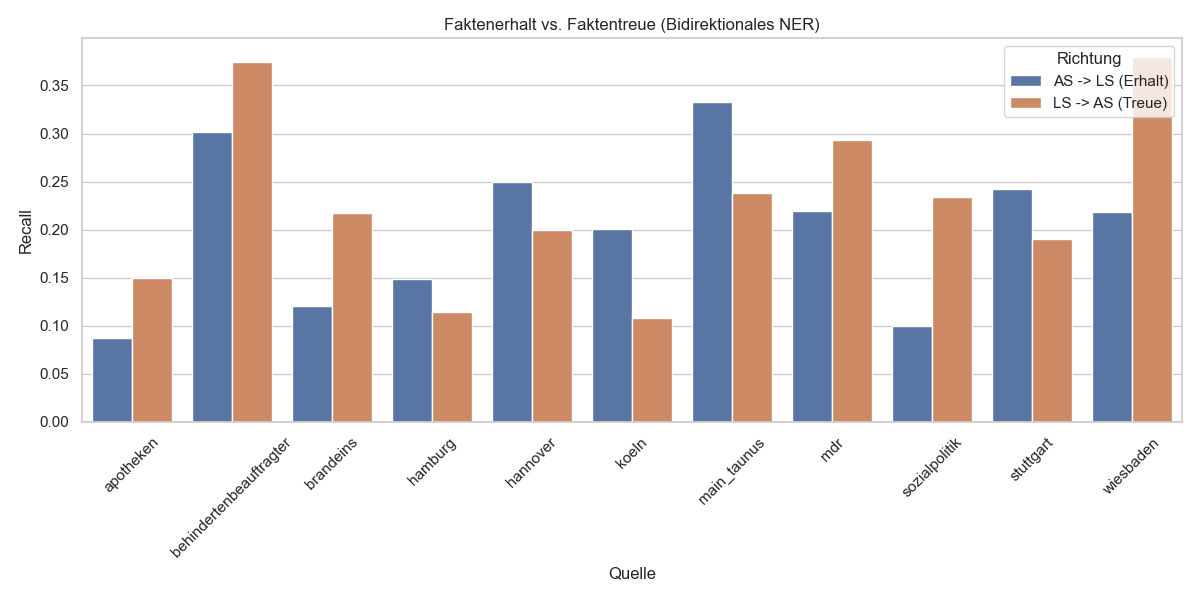
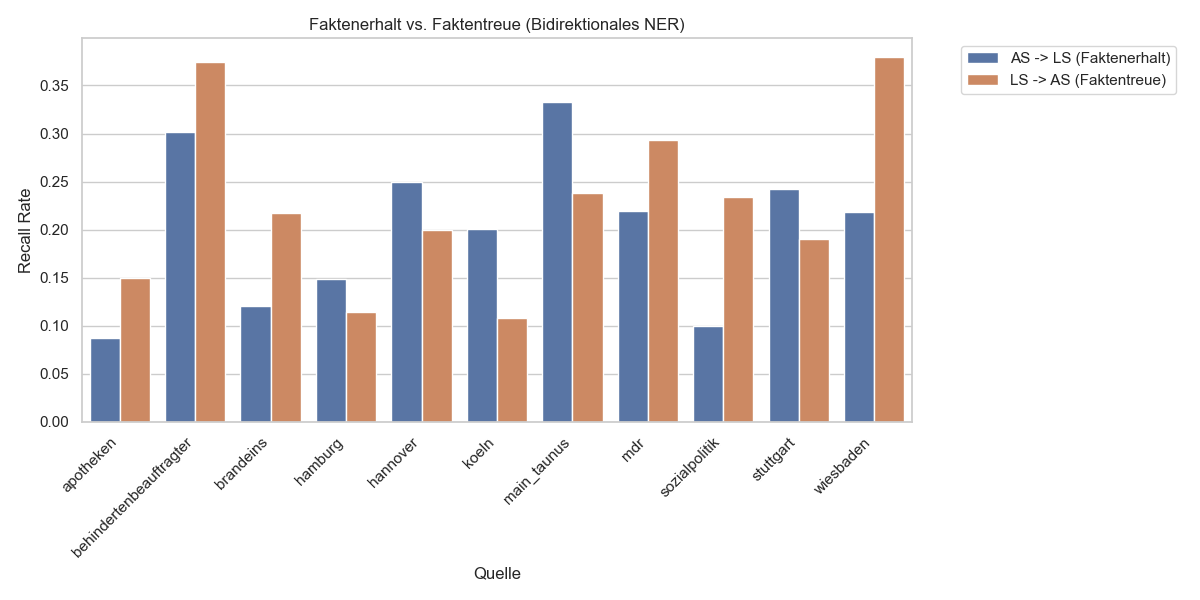
feat: add some more insights in 08

diff --git a/scripts/visualize_analysis.py b/scripts/visualize_analysis.py
@@ -11,85 +11,148 @@ os.makedirs(OUTPUT_DIR, exist_ok=True)
 def create_visualizations():
     df = pd.read_csv(INPUT_CSV)
     
-    # Filter extremes for cleaner plots (optional, but good for token_ratio vs ner_recall)
-    # We will plot the full dataset, but be aware of outliers.
-    
     # Set style
     sns.set_theme(style="whitegrid")
     plt.rcParams.update({'font.size': 12})
     
-    # 1. Token Ratio vs. NER Recall (AS -> LS)
-    plt.figure(figsize=(10, 6))
-    sns.scatterplot(data=df, x='token_ratio', y='ner_recall_as_ls', hue='source', alpha=0.5)
-    plt.title('Token Ratio vs. NER Recall (Fakten-Erhalt AS -> LS)')
-    plt.xlabel('Token Ratio (LS / AS)')
-    plt.ylabel('NER Recall (Fakten-Erhalt)')
-    plt.axvline(1.0, color='r', linestyle='--')
-    # Move legend outside
+    # 1. Jina Context Comparison (128 vs 512 vs 8192)
+    sim_cols = ['semantic_similarity_128', 'semantic_similarity_512', 'semantic_similarity_8192']
+    # Check if 8192 exists and has data, otherwise just plot 128 and 512
+    valid_cols = [c for c in sim_cols if c in df.columns and not df[c].isna().all()]
+    mean_sims = df.groupby('source')[valid_cols].mean().reset_index()
+    
+    # Rename columns for plot
+    rename_dict = {'semantic_similarity_128': '128 Tokens', 
+                   'semantic_similarity_512': '512 Tokens', 
+                   'semantic_similarity_8192': '8192 Tokens'}
+    mean_sims = mean_sims.rename(columns=rename_dict)
+    
+    sim_df = mean_sims.melt(id_vars='source', var_name='Context Limit', value_name='Similarity')
+    
+    plt.figure(figsize=(12, 6))
+    sns.barplot(data=sim_df, x='source', y='Similarity', hue='Context Limit')
+    plt.xticks(rotation=45, ha='right')
+    plt.title('Semantische Ähnlichkeit: Einfluss der Kontextlänge (Jina Model)')
+    plt.ylabel('Cosine Similarity')
     plt.legend(bbox_to_anchor=(1.05, 1), loc='upper left')
     plt.tight_layout()
-    plt.savefig(os.path.join(OUTPUT_DIR, 'token_ratio_vs_ner_recall.png'))
+    plt.savefig(os.path.join(OUTPUT_DIR, 'jina_context_comparison.png'))
     plt.close()
-    
-    # 2. Semantic Similarity by Source (Jina 512)
+
+    # 1.5 Semantic Similarity by Source (Jina 8192) - Boxplot
+    if 'semantic_similarity_8192' in df.columns and not df['semantic_similarity_8192'].isna().all():
+        plt.figure(figsize=(12, 6))
+        sns.boxplot(data=df, x='source', y='semantic_similarity_8192', color='#4C72B0') 
+        plt.xticks(rotation=45, ha='right')
+        plt.title('Semantische Ähnlichkeit nach Quelle (Jina 8192 Tokens)')
+        plt.ylabel('Cosine Similarity (SBERT)')
+        plt.tight_layout()
+        plt.savefig(os.path.join(OUTPUT_DIR, 'semantic_similarity_8192.png'))
+        plt.close()
+
+    # 2. Bidirectional NER Comparison
+    ner_cols = ['ner_recall_as_ls', 'ner_recall_ls_as']
+    mean_ner = df.groupby('source')[ner_cols].mean().reset_index()
+    mean_ner.columns = ['Quelle', 'AS -> LS (Faktenerhalt)', 'LS -> AS (Faktentreue)']
+    ner_df = mean_ner.melt(id_vars='Quelle', var_name='Richtung', value_name='Recall')
+
     plt.figure(figsize=(12, 6))
-    sns.boxplot(data=df, x='source', y='semantic_similarity_512')
-    plt.xticks(rotation=45)
-    plt.title('Semantische Ähnlichkeit nach Quelle (Jina 512 Tokens)')
-    plt.ylabel('Cosine Similarity (SBERT)')
+    sns.barplot(data=ner_df, x='Quelle', y='Recall', hue='Richtung')
+    plt.xticks(rotation=45, ha='right')
+    plt.title('Faktenerhalt vs. Faktentreue (Bidirektionales NER)')
+    plt.ylabel('Recall Rate')
+    plt.legend(bbox_to_anchor=(1.05, 1), loc='upper left')
     plt.tight_layout()
-    plt.savefig(os.path.join(OUTPUT_DIR, 'semantic_similarity_by_source.png'))
+    plt.savefig(os.path.join(OUTPUT_DIR, 'bidirectional_ner_comparison.png'))
     plt.close()
+
+    # 3. Token Ratio vs Semantic Similarity
+    plt.figure(figsize=(10, 6))
+    sns.regplot(data=df, x='token_ratio', y='semantic_similarity_512', scatter_kws={'alpha':0.3}, line_kws={'color':'red'})
+    plt.title('Korrelation: Token-Verhältnis vs. Semantische Ähnlichkeit')
+    plt.xlabel('Token Ratio (LS / AS)')
+    plt.ylabel('Semantische Ähnlichkeit (Jina 512)')
+    plt.tight_layout()
+    plt.savefig(os.path.join(OUTPUT_DIR, 'token_ratio_vs_similarity_scatter.png'))
+    plt.close()
+
+    # 4. Semantic Similarity Histogram (Filtering)
+    plt.figure(figsize=(10, 6))
+    sns.histplot(data=df, x='semantic_similarity_512', bins=50, kde=True)
+    plt.axvline(0.6, color='red', linestyle='--', label='Untere Grenze (0.6)')
+    plt.axvline(0.98, color='green', linestyle='--', label='Obere Grenze (0.98)')
+    plt.title('Verteilung der Semantischen Ähnlichkeit (inkl. Filtergrenzen)')
+    plt.xlabel('Semantische Ähnlichkeit (Jina 512)')
+    plt.ylabel('Anzahl Artikelpaare')
+    plt.legend()
+    plt.tight_layout()
+    plt.savefig(os.path.join(OUTPUT_DIR, 'similarity_distribution_hist.png'))
+    plt.close()
+
+    # 5. Sentence Length Comparison
+    sent_len_data = {
+        'Quelle': df['source'].tolist() * 2,
+        'Sprache': ['Alltagssprache'] * len(df) + ['Leichte Sprache'] * len(df),
+        'Satzlänge': df['as_avg_sent_len'].tolist() + df['ls_avg_sent_len'].tolist()
+    }
+    sent_df = pd.DataFrame(sent_len_data)
     
-    # 3. POS Ratio Changes (Mean)
+    plt.figure(figsize=(12, 6))
+    sns.barplot(data=sent_df, x='Quelle', y='Satzlänge', hue='Sprache')
+    plt.xticks(rotation=45, ha='right')
+    plt.title('Durchschnittliche Satzlänge nach Quelle')
+    plt.ylabel('Tokens pro Satz')
+    plt.legend(bbox_to_anchor=(1.05, 1), loc='upper left')
+    plt.tight_layout()
+    plt.savefig(os.path.join(OUTPUT_DIR, 'sentence_length_comparison_bar.png'))
+    plt.close()
+
+    # 6. POS Distribution Comparison
     pos_cols_as = ['as_adj_ratio', 'as_noun_ratio', 'as_verb_ratio', 'as_conj_ratio']
     pos_cols_ls = ['ls_adj_ratio', 'ls_noun_ratio', 'ls_verb_ratio', 'ls_conj_ratio']
     
     mean_pos = df[pos_cols_as + pos_cols_ls].mean()
     pos_data = {
-        'Metric': ['Adjectives', 'Nouns', 'Verbs', 'Conjunctions'],
-        'AS': [mean_pos['as_adj_ratio'], mean_pos['as_noun_ratio'], mean_pos['as_verb_ratio'], mean_pos['as_conj_ratio']],
-        'LS': [mean_pos['ls_adj_ratio'], mean_pos['ls_noun_ratio'], mean_pos['ls_verb_ratio'], mean_pos['ls_conj_ratio']]
+        'Wortart': ['Adjektive', 'Nomen', 'Verben', 'Konjunktionen'],
+        'Alltagssprache': [mean_pos['as_adj_ratio'], mean_pos['as_noun_ratio'], mean_pos['as_verb_ratio'], mean_pos['as_conj_ratio']],
+        'Leichte Sprache': [mean_pos['ls_adj_ratio'], mean_pos['ls_noun_ratio'], mean_pos['ls_verb_ratio'], mean_pos['ls_conj_ratio']]
     }
-    pos_df = pd.DataFrame(pos_data).melt(id_vars='Metric', var_name='Language', value_name='Ratio')
+    pos_df = pd.DataFrame(pos_data).melt(id_vars='Wortart', var_name='Sprache', value_name='Anteil')
     
     plt.figure(figsize=(10, 6))
-    sns.barplot(data=pos_df, x='Metric', y='Ratio', hue='Language')
-    plt.title('Durchschnittliche Wortarten-Verteilung (AS vs. LS)')
-    plt.ylabel('Anteil am Gesamttext')
+    sns.barplot(data=pos_df, x='Wortart', y='Anteil', hue='Sprache')
+    plt.title('Durchschnittliche Wortarten-Verteilung (Gesamtes Korpus)')
+    plt.ylabel('Anteil an allen Tokens')
     plt.tight_layout()
-    plt.savefig(os.path.join(OUTPUT_DIR, 'pos_distribution_comparison.png'))
+    plt.savefig(os.path.join(OUTPUT_DIR, 'pos_distribution_bar.png'))
     plt.close()
 
-    # 4. Sentence Length Comparison
-    if 'as_avg_sent_len' in df.columns:
-        plt.figure(figsize=(10, 6))
-        sent_len_data = {
-            'Language': ['AS', 'LS'],
-            'Avg Sentence Length': [df['as_avg_sent_len'].mean(), df['ls_avg_sent_len'].mean()]
-        }
-        sent_df = pd.DataFrame(sent_len_data)
-        sns.barplot(data=sent_df, x='Language', y='Avg Sentence Length')
-        plt.title('Durchschnittliche Satzlänge (Tokens)')
-        plt.ylabel('Tokens pro Satz')
-        plt.tight_layout()
-        plt.savefig(os.path.join(OUTPUT_DIR, 'sentence_length_comparison.png'))
-        plt.close()
-
-    # 5. Bidirectional NER Comparison
-    ner_cols = ['ner_recall_as_ls', 'ner_recall_ls_as']
-    mean_ner = df.groupby('source')[ner_cols].mean().reset_index()
-    mean_ner.columns = ['Quelle', 'AS -> LS (Erhalt)', 'LS -> AS (Treue)']
-    ner_df = mean_ner.melt(id_vars='Quelle', var_name='Richtung', value_name='Recall')
-
+    # 7. Article Length Distribution (Histogram)
     plt.figure(figsize=(12, 6))
-    sns.barplot(data=ner_df, x='Quelle', y='Recall', hue='Richtung')
-    plt.xticks(rotation=45)
-    plt.title('Faktenerhalt vs. Faktentreue (Bidirektionales NER)')
-    plt.ylabel('Recall')
+    # Log scale might be better as lengths can vary wildly
+    # sns.histplot(data=df, x='as_tokens', label='Alltagssprache', kde=True, color='blue', alpha=0.5)
+    # sns.histplot(data=df, x='ls_tokens', label='Leichte Sprache', kde=True, color='green', alpha=0.5)
+    
+    # Melting for easier plotting with hue
+    length_df = df[['as_tokens', 'ls_tokens']].melt(var_name='Sprache', value_name='Token-Anzahl')
+    length_df['Sprache'] = length_df['Sprache'].map({'as_tokens': 'Alltagssprache', 'ls_tokens': 'Leichte Sprache'})
+    
+    sns.histplot(data=length_df, x='Token-Anzahl', hue='Sprache', kde=True, bins=50, element="step", common_norm=False)
+    
+    # Add SBERT limits for context
+    plt.axvline(128, color='red', linestyle='--', label='SBERT Limit (128)')
+    plt.axvline(512, color='orange', linestyle='--', label='SBERT Limit (512)')
+    
+    plt.title('Verteilung der Artikellängen (Token-Anzahl)')
+    plt.xlabel('Anzahl Tokens')
+    plt.ylabel('Anzahl Artikel')
+    plt.legend()
+    plt.xlim(0, 3000) # Limit x-axis for better visibility of the bulk of articles
     plt.tight_layout()
-    plt.savefig(os.path.join(OUTPUT_DIR, 'bidirectional_ner_comparison.png'))
+    plt.savefig(os.path.join(OUTPUT_DIR, 'article_length_distribution.png'))
     plt.close()
+
+    print(f"Visualizations updated and saved to {OUTPUT_DIR}")
 
 if __name__ == "__main__":
     create_visualizations()

diff --git a/scripts/measure_information_loss.py b/scripts/measure_information_loss.py
@@ -106,11 +106,10 @@ def analyze_corpus():
             
             # Semantic Similarity (Jina Model at different sequence lengths)
             
-            # 1. Full Context (8192) - Skipped to save time, we already computed this
-            # sbert.max_seq_length = 8192
-            # embeddings_full = sbert.encode([as_text, ls_text], batch_size=1, convert_to_tensor=True)
-            # sim_8192 = util.cos_sim(embeddings_full[0], embeddings_full[1]).item()
-            sim_8192 = None
+            # 1. Full Context (8192)
+            sbert.max_seq_length = 8192
+            embeddings_full = sbert.encode([as_text, ls_text], batch_size=1, convert_to_tensor=True)
+            sim_8192 = util.cos_sim(embeddings_full[0], embeddings_full[1]).item()
             
             # 2. Context 512
             sbert.max_seq_length = 512

diff --git a/research/08_dataset_analysis.md b/research/08_dataset_analysis.md
@@ -72,6 +72,9 @@ Um das Problem der abgeschnittenen Texte (Truncation) final zu lösen, wurde das
 
 Um einen sauberen Vergleich zwischen den Modellen und den Auswirkungen der Textlänge zu ziehen, wurde die Kosinus-Ähnlichkeit mit dem Jina-Modell dreistufig gemessen: bei einem Limit von 128 Tokens, 512 Tokens und der vollen Textlänge (max. 8192 Tokens).
 
+![Einfluss der Kontextlänge auf Semantische Ähnlichkeit](../research/img/analysis/jina_context_comparison.png)
+*Abbildung: Einfluss der Kontextlänge (128 vs 512 vs 8192 Tokens) auf die gemessene semantische Ähnlichkeit.*
+
 | Quelle | Jina Similarity (128 Tokens) | Jina Similarity (512 Tokens) | Jina Similarity (Full Context / 8192) | Differenz (128 vs Full) |
 | :--- | :---: | :---: | :---: | :---: |
 | **apotheken** | 0.688 | 0.800 | **0.836** | +0.148 |
@@ -118,6 +121,9 @@ Um sicherzustellen, dass die Wahl des Modells keine systematischen Verzerrungen 
 ### 3.3 Bidirektionale NER-Analyse (Erfindet LS Fakten?)
 Bisher haben wir gemessen, wie viele Fakten (Entitäten) aus dem Original in der Leichten Sprache erhalten bleiben (AS -> LS Recall: ~15-20%). Nun haben wir zusätzlich gemessen, wie viele Fakten aus der Leichten Sprache auch im Original stehen (**LS -> AS Recall**).
 
+![Bidirektionales NER](../research/img/analysis/bidirectional_ner_comparison.png)
+*Abbildung: Vergleich zwischen Faktenerhalt (AS->LS) und Faktentreue (LS->AS) über verschiedene Quellen.*
+
 | Quelle | AS -> LS Recall (Faktenerhalt) | LS -> AS Recall (Faktentreue) |
 | :--- | :---: | :---: |
 | **apotheken** | 0.087 | 0.150 |
@@ -140,6 +146,9 @@ Bisher haben wir gemessen, wie viele Fakten (Entitäten) aus dem Original in der
 ### 3.4 Korrelationsanalyse: Token-Ratio vs. Similarity
 Die statistische Überprüfung ergab eine Korrelation (Pearson) zwischen der **Token-Ratio** (Längenverhältnis) und der **semantischen Ähnlichkeit (512 Tokens)** von **`r = -0.098`**.
 
+![Korrelation Token-Ratio vs Similarity](../research/img/analysis/token_ratio_vs_similarity_scatter.png)
+*Abbildung: Fehlende Korrelation zwischen Längenverhältnis und Semantischer Ähnlichkeit.*
+
 **Bedeutung:** Es gibt **keinen signifikanten linearen Zusammenhang** zwischen der Länge eines LS-Textes und seiner semantischen Ähnlichkeit zum Original. Ein Text, der in Leichter Sprache stark verlängert wird (z.B. doppelt so lang wie das Original), transportiert die "Kernbotschaft" (gemessen via Embeddings) nicht automatisch besser oder schlechter als ein Text, der stark gekürzt wurde. Die Art der Übersetzung (Erklärung vs. Auslassung) scheint wichtiger zu sein als die reine Wortanzahl.
 
 ### 3.5 Manuelle Auditierung der Extremwerte & Korpus-Bereinigung
@@ -160,6 +169,9 @@ Wir schlagen folgenden Filter vor:
 - **Untere Grenze:** `Semantic Similarity < 0.6` (Entfernt Alignment-Fehler und radikale Teaser-Kürzungen).
 - **Obere Grenze:** `Semantic Similarity > 0.98` (Entfernt identische Texte, bei denen keine Übersetzung stattgefunden hat).
 
+![Histogramm der Ähnlichkeitsverteilung](../research/img/analysis/similarity_distribution_hist.png)
+*Abbildung: Verteilung der semantischen Ähnlichkeit im gesamten Korpus mit markierten Filtergrenzen.*
+
 **Auswirkung auf die Datensatz-Größe & Tokens:**
 Nach Anwendung des Filters (Similarity zwischen 0.6 und 0.98) ergibt sich folgende Reduktion des Datensatzes:
 
@@ -176,7 +188,14 @@ Der Verlust an reinen Trainingsdaten (Tokens) durch diese Bereinigung ist minima
 
 Neben der Semantik und den Entitäten wurden auch klassische linguistische Merkmale über das gesamte Korpus (N=1.526) gemessen. Die Vorgaben der Leichten Sprache (kurze Sätze, Parataxe statt Hypotaxe) spiegeln sich deutlich in den Daten wider:
 
+![Vergleich der Satzlängen](../research/img/analysis/sentence_length_comparison_bar.png)
+*Abbildung: Durchschnittliche Tokens pro Satz in AS und LS aufgeteilt nach Quelle.*
+
 - **Satzlänge:** Die durchschnittliche Satzlänge in der Alltagssprache beträgt im Korpus **15,6 Tokens** pro Satz. In der Leichten Sprache sinkt dieser Wert drastisch auf **9,1 Tokens** pro Satz (eine Reduktion um ca. 42 %). Quellen wie *brand eins* zeigen sogar eine Halbierung von 20 auf 7 Tokens pro Satz.
+
+![Vergleich der Wortarten](../research/img/analysis/pos_distribution_bar.png)
+*Abbildung: Veränderung der Wortarten-Verteilung (Part-of-Speech) im Korpus.*
+
 - **Konjunktionen:** Der Anteil der Konjunktionen (Bindewörter, die oft für Nebensätze genutzt werden) sinkt von **4,6 %** in AS auf **3,0 %** in LS. Dies ist ein harter quantitativer Indikator dafür, dass komplexe Nebensatzkonstruktionen (Hypotaxen) durch einfache Hauptsatzreihen (Parataxen) ersetzt wurden.
 
 ## 4. Zeitplan & Organisation
